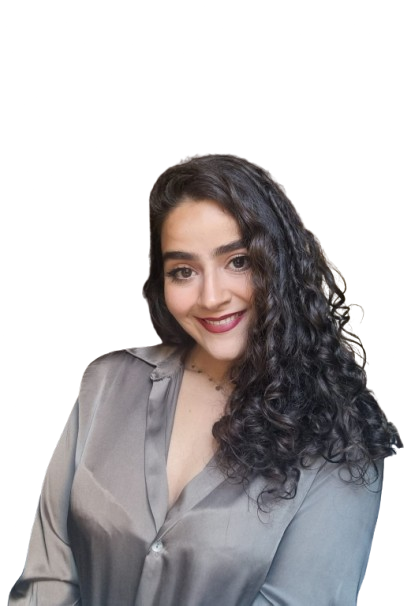
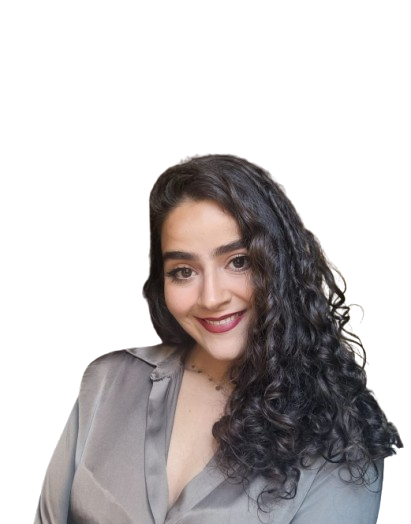
Implement code changes to enhance functionality and improve performance

diff --git a/index.php b/index.php
@@ -152,6 +152,9 @@
                       ["image" => "assets/img/custom-img/Erasmus+ for Young Refugees - Ioannina -  11-161-1-2024.jpg", "descriptions" => ["Project: Erasmus+ for Young Refugees", "Location: Ioannina", "Date: 11/16/2024"]],
                       ["image" => "assets/img/custom-img/Training Course 4Learning - Predeal (March 2025).jpg", "descriptions" => ["Project: Training Course 4Learning Predeal", "Location: Romania", "Date: March 2025"]],
                       ["image" => "assets/img/custom-img/May 2024 Conference ESF+ Lisbon_.jpg", "descriptions" => ["Project: Conference ESF+", "Location: Lisbon", "Date: May 2024"]],
+                      ["image" => "assets/img/custom-img/March 2023 Bucarest - Recul Final Conference.jpg", "descriptions" => ["Project: Erasmus+ for Young Refugees", "Location: Ioannina", "Date: 11/16/2024"]],
+                      ["image" => "assets/img/custom-img/Erasmus+ Ka2 Luxembourg April 2025 _Tech Queens Project_.jpg", "descriptions" => ["Project: Training Course 4Learning Predeal", "Location: Romania", "Date: March 2025"]],
+                      ["image" => "assets/img/custom-img/May 2024 Conference ESF+ Lisbon_.jpg", "descriptions" => ["Project: Conference ESF+", "Location: Lisbon", "Date: May 2024"]],
                     ];
 
                     foreach ($slides as $slide) {
